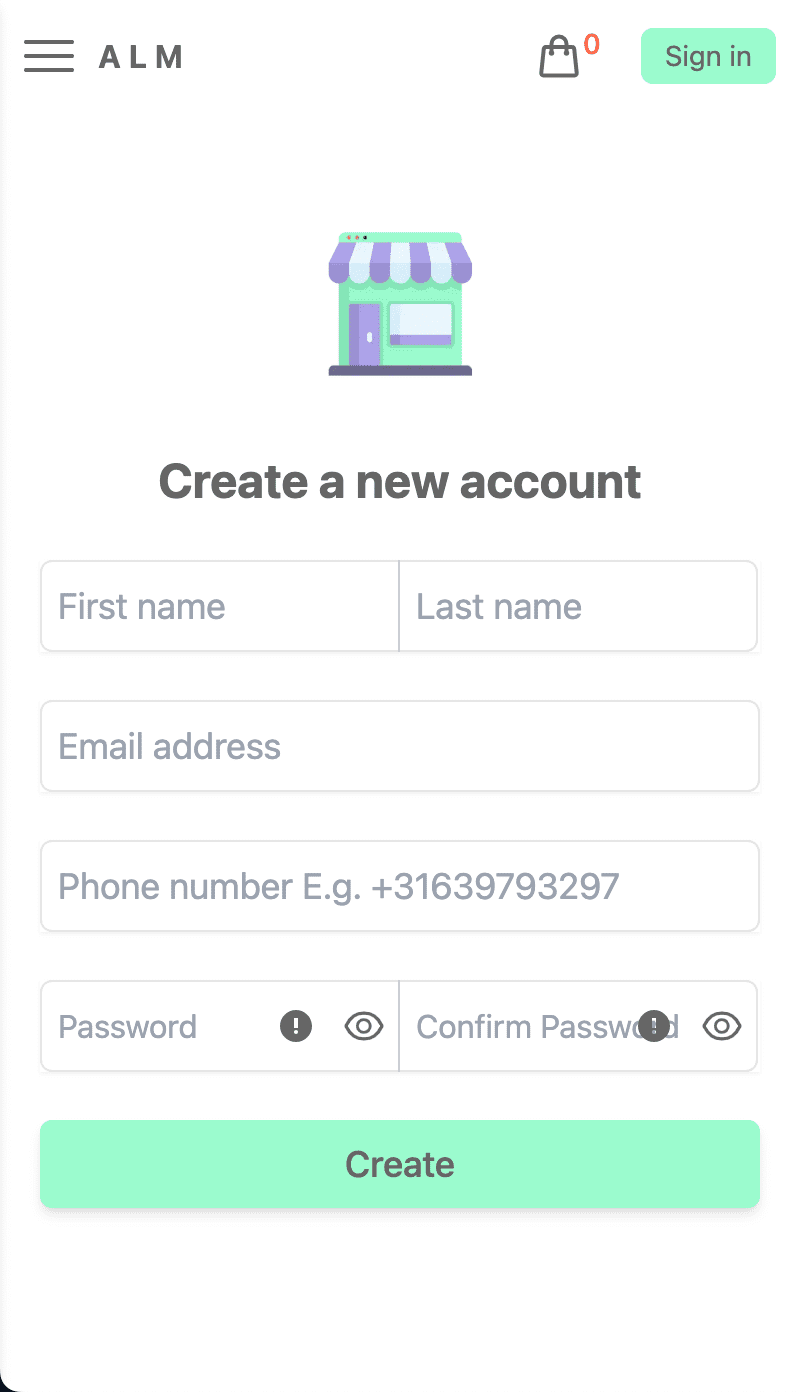
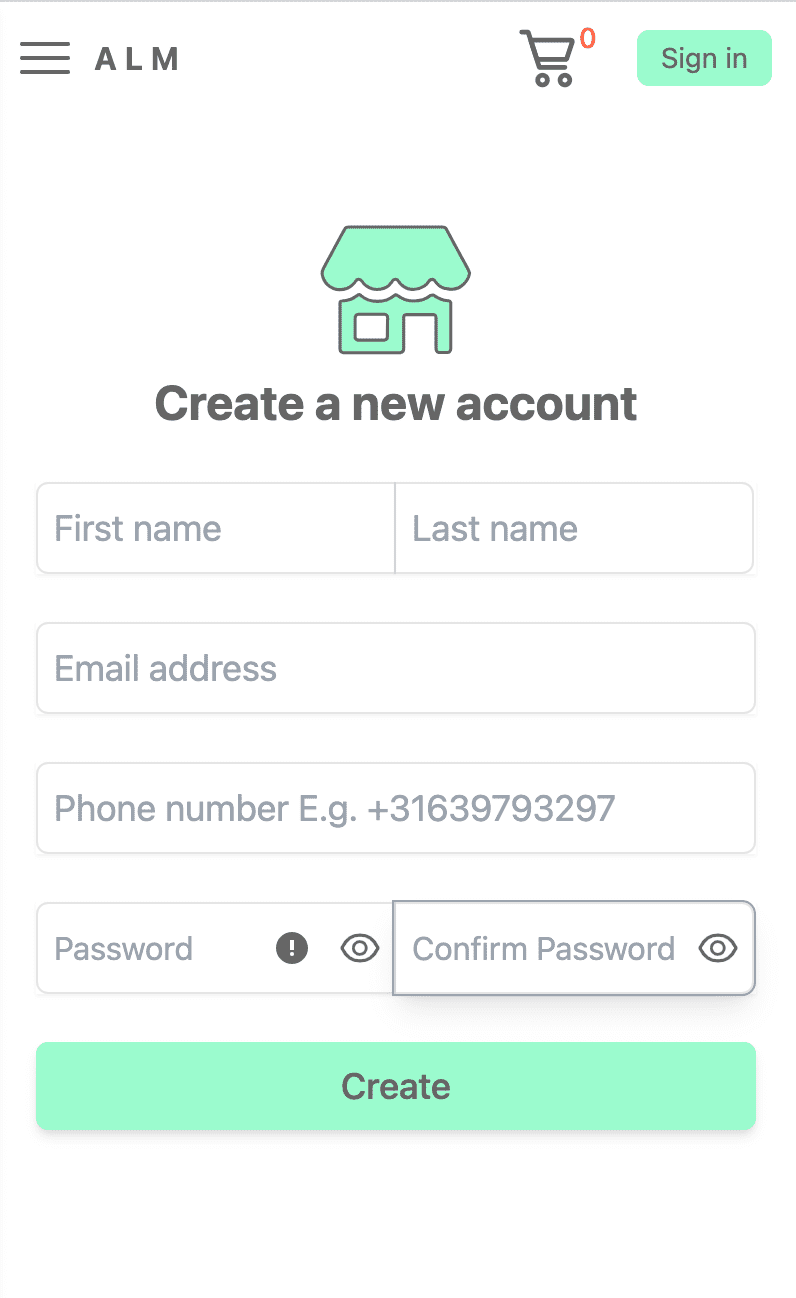
Updated steps images.

diff --git a/frontend/app/(component)/custom-inputs.js b/frontend/app/(component)/custom-inputs.js
@@ -79,9 +79,11 @@ export function PswInputField({ lang, newPsw, confirm, cls, ...p }) {
       cls={"items-center " + cls}
       {...newProps}
       {...p}>
-      <Tooltip position="top-left" cls="!absolute right-10 z-1">
-        <div className="w-40 text-sm leading-6 text-orange">{content.passwordTooltip[lang]}</div>
-      </Tooltip>
+      {!confirm && (
+        <Tooltip position="top-left" cls="!absolute right-10 z-1">
+          <div className="w-40 text-sm leading-6 text-orange">{content.passwordTooltip[lang]}</div>
+        </Tooltip>
+      )}
       <IconButton icon="eye" onClick={() => setVisible(!visible)} className="w-5 absolute right-2 z-1" />
     </InputField>
   );

diff --git a/frontend/public/service-worker.js b/frontend/public/service-worker.js
@@ -1,6 +1,6 @@
 // self.importScripts('foo.js', 'bar.js');
 
-const staticFileCacheName = "static-files-v-11";
+const staticFileCacheName = "static-files-v-10";
 // const filesMustCache = /(googleapis|gstatic)|\.(JS|CSS|SVG|PNG|JPG|jPEG|GIF|ICO|JSON)$/gim;
 const staticFileCachePaths = [
   "/",
